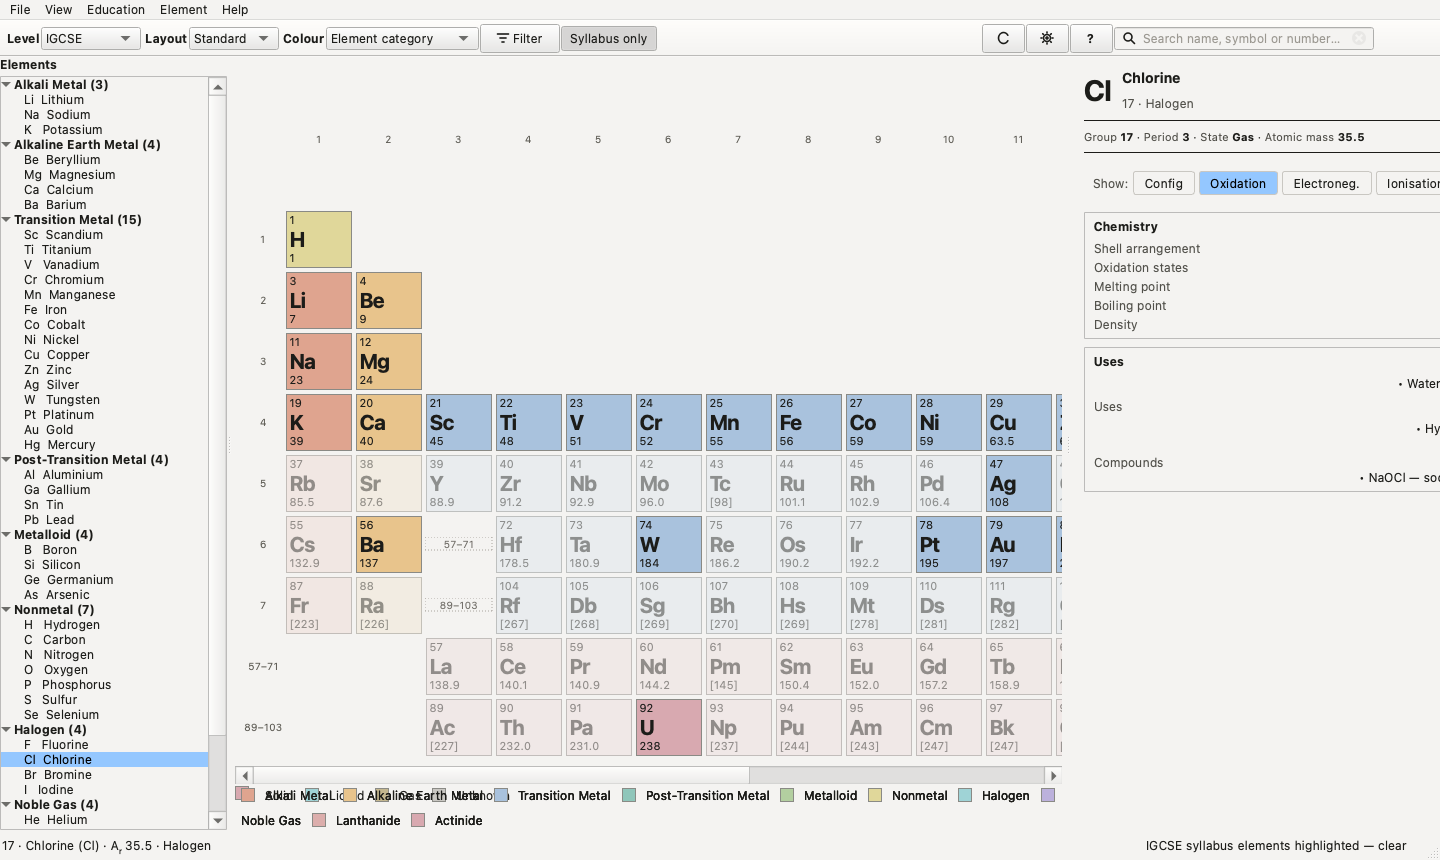
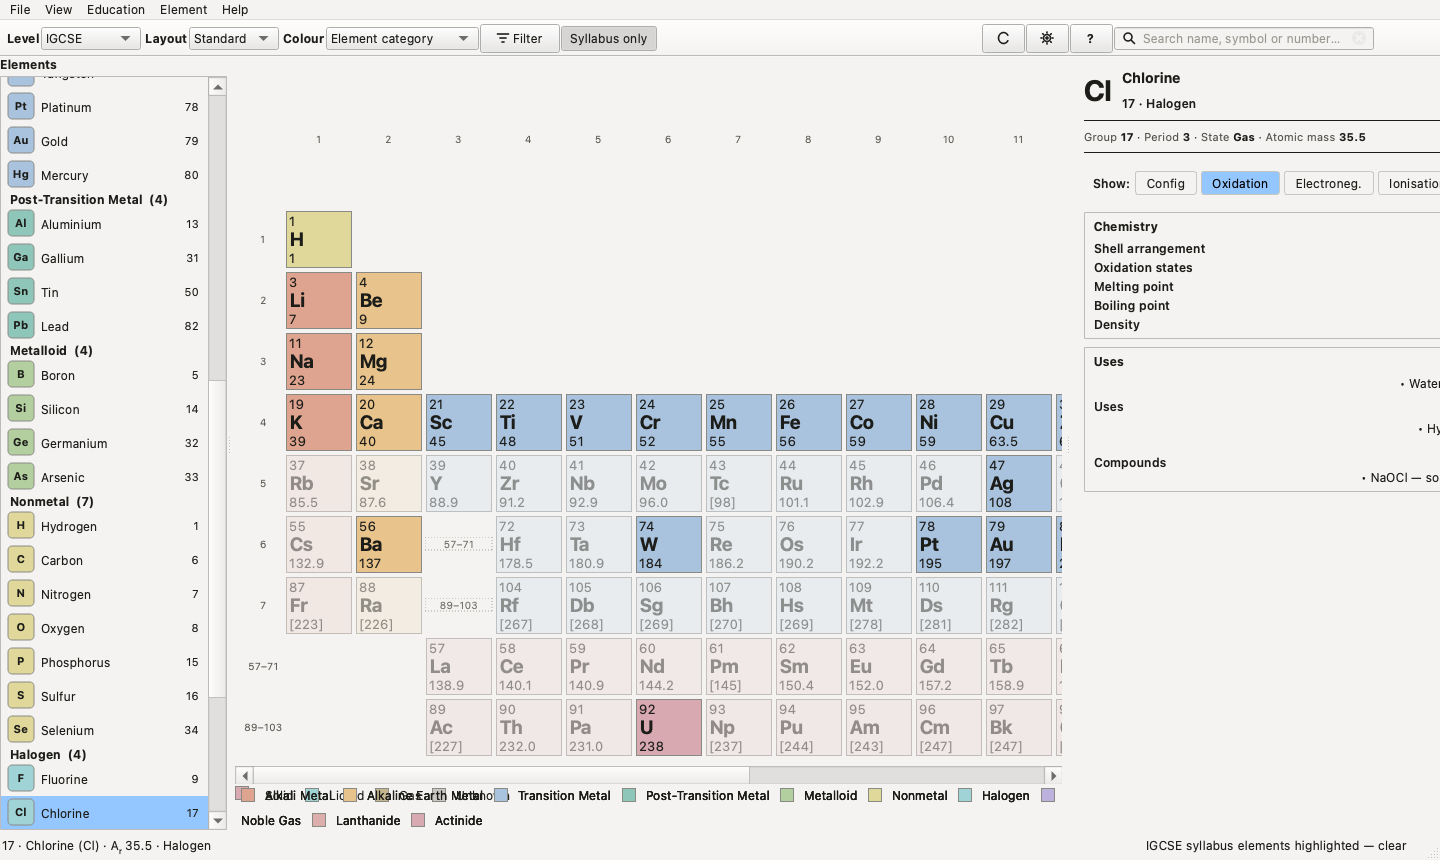
fix: labels now full-contrast bold ink (no grey text anywhere), GarageBand sidebar with coloured symbol chips via delegate, larger tile text

diff --git a/orbital/ui/sidebar.py b/orbital/ui/sidebar.py
@@ -1,24 +1,115 @@
 """Category browser — the GarageBand-style left sidebar.
 
-Element categories are the 'instrument families'; each section lists its
-elements as compact rows (number, symbol, name) with a colour dot. Click
-to select, arrows + Enter work throughout. Sections expand and collapse.
+GarageBand's library shows instrument families as sections, each row an
+icon + name. Orbital's version: element categories as bold section
+headers (with counts), each element row painted with a coloured symbol
+chip — the tile colour of that element — plus the name and number.
+
+A QItemDelegate paints the chips so the tree keeps native keyboard
+navigation, selection and filtering.
 """
 from __future__ import annotations
 
-from PySide6.QtCore import Qt, Signal
-from PySide6.QtGui import QFont
+from PySide6.QtCore import Qt, Signal, QRectF, QSize
+from PySide6.QtGui import QColor, QPainter, QFont, QPen, QPalette
 from PySide6.QtWidgets import (
-    QWidget, QVBoxLayout, QTreeWidget, QTreeWidgetItem, QLabel, QSizePolicy,
+    QWidget, QVBoxLayout, QTreeWidget, QTreeWidgetItem, QLabel,
+    QStyledItemDelegate, QStyle, QStyleOptionViewItem,
 )
 
 from orbital.data import CATEGORIES
+from orbital.ui.theme import is_dark_theme, readable_text_on
 
 CATEGORY_ORDER = (
     "alkali metal", "alkaline earth metal", "transition metal",
     "post-transition metal", "metalloid", "nonmetal", "halogen",
     "noble gas", "lanthanide", "actinide",
 )
+
+CHIP = 26
+CHIP_PAD = 7
+
+
+class _RowData:
+    """Per-item paint data (avoids per-paint lookups)."""
+    __slots__ = ("kind", "symbol", "number", "chip_color", "count", "title")
+
+    def __init__(self, kind, symbol="", number=0, chip_color="#c9c7c2",
+                 count=0, title=""):
+        self.kind = kind
+        self.symbol = symbol
+        self.number = number
+        self.chip_color = chip_color
+        self.count = count
+        self.title = title
+
+
+class SidebarDelegate(QStyledItemDelegate):
+    """Paints: section headers (bold, larger) and element rows (chip +
+    symbol, name, number on the right)."""
+
+    def paint(self, painter, option, index):
+        data = index.data(Qt.UserRole)
+        if data is None:
+            super().paint(painter, option, index)
+            return
+        painter.save()
+        painter.setRenderHint(QPainter.Antialiasing, True)
+        opt = QStyleOptionViewItem(option)
+        self.initStyleOption(opt, index)
+        # selection / focus background from the style, then our content on top
+        opt.widget.style().drawControl(QStyle.CE_ItemViewItem, opt, painter,
+                                       opt.widget)
+
+        rect = opt.rect
+        if data.kind == "header":
+            font = QFont(opt.font)
+            font.setBold(True)
+            font.setPointSizeF(opt.font.pointSizeF() * 1.02)
+            painter.setFont(font)
+            painter.setPen(opt.palette.color(QPalette.Text))
+            label = data.title if not data.count else "%s  (%d)" % (
+                data.title, data.count)
+            painter.drawText(rect.adjusted(CHIP_PAD + 2, 0, -8, 0),
+                             Qt.AlignVCenter | Qt.AlignLeft, label)
+        else:
+            # coloured symbol chip
+            chip = QRectF(rect.left() + CHIP_PAD,
+                          rect.center().y() - CHIP / 2.0, CHIP, CHIP)
+            color = QColor(data.chip_color)
+            painter.setBrush(color)
+            painter.setPen(QPen(QColor("#8a8a85") if not is_dark_theme()
+                                else QColor("#54575e"), 1))
+            painter.drawRoundedRect(chip, 4.0, 4.0)
+            painter.setBrush(Qt.NoBrush)
+            f = QFont(opt.font)
+            f.setBold(True)
+            f.setPointSizeF(opt.font.pointSizeF() * 0.95)
+            painter.setFont(f)
+            painter.setPen(readable_text_on(color))
+            painter.drawText(chip, Qt.AlignCenter, data.symbol)
+            # element name + number
+            painter.setPen(opt.palette.color(QPalette.Text))
+            name_font = QFont(opt.font)
+            name_font.setBold(False)
+            painter.setFont(name_font)
+            painter.drawText(rect.adjusted(CHIP_PAD * 2 + CHIP, 0, -34, 0),
+                             Qt.AlignVCenter | Qt.AlignLeft, data.title)
+            f2 = QFont(opt.font)
+            f2.setPointSizeF(opt.font.pointSizeF() * 0.9)
+            painter.setFont(f2)
+            painter.setPen(opt.palette.color(QPalette.Text))
+            painter.drawText(rect.adjusted(0, 0, -CHIP_PAD - 2, 0),
+                             Qt.AlignVCenter | Qt.AlignRight,
+                             str(data.number))
+        painter.restore()
+
+    def sizeHint(self, option, index):
+        data = index.data(Qt.UserRole)
+        base = super().sizeHint(option, index)
+        if data is not None and data.kind == "row":
+            return QSize(base.width(), max(base.height(), CHIP + 8))
+        return base
 
 
 class Sidebar(QWidget):
@@ -29,7 +120,7 @@ class Sidebar(QWidget):
         self.elements = elements
         self.color_modes = color_modes
         self._item_numbers = {}
-        self._filter_numbers = None  # set of visible atomic numbers, or None
+        self._filter_numbers = None
 
         lay = QVBoxLayout(self)
         lay.setContentsMargins(0, 0, 0, 0)
@@ -44,22 +135,30 @@ class Sidebar(QWidget):
         self.tree = QTreeWidget()
         self.tree.setColumnCount(1)
         self.tree.setHeaderHidden(True)
-        self.tree.setRootIsDecorated(True)
-        self.tree.setIndentation(10)
-        self.tree.setUniformRowHeights(True)
+        self.tree.setRootIsDecorated(False)
+        self.tree.setIndentation(0)
+        self.tree.setUniformRowHeights(False)
         self.tree.setVerticalScrollMode(QTreeWidget.ScrollPerPixel)
+        self.tree.setItemDelegate(SidebarDelegate(self.tree))
         lay.addWidget(self.tree, 1)
 
         self.tree.itemClicked.connect(self._on_click)
         self._build()
+
+    # ------------------------------------------------------------------ data
 
     def set_filter(self, numbers):
         """Restrict the list to these atomic numbers (None = all 118)."""
         self._filter_numbers = numbers
         self._build()
 
-    def _build(self):
+    def _chip_color(self, element):
         mode = self.color_modes.get("category")
+        if mode and mode.fn:
+            return mode.fn(element)
+        return "#c9c7c2"
+
+    def _build(self):
         self.tree.clear()
         self._item_numbers = {}
         by_cat = {}
@@ -70,18 +169,24 @@ class Sidebar(QWidget):
 
         for cat in CATEGORY_ORDER:
             els = by_cat.get(cat, [])
-            section = QTreeWidgetItem([cat.title() + " (%d)" % len(els)])
-            f = section.font(0)
-            f.setBold(True)
-            section.setFont(0, f)
+            if not els:
+                continue
+            section = QTreeWidgetItem([""])
+            section.setData(0, Qt.UserRole, _RowData(
+                "header", title=cat.title(), count=len(els)))
+            section.setFlags(Qt.ItemIsEnabled)  # header: not selectable
             self.tree.addTopLevelItem(section)
             section.setExpanded(True)
             for e in els:
-                label = "%-2s  %s" % (e.symbol, e.name)
-                item = QTreeWidgetItem([label])
+                item = QTreeWidgetItem([""])
+                item.setData(0, Qt.UserRole, _RowData(
+                    "row", symbol=e.symbol, number=e.number,
+                    chip_color=self._chip_color(e), title=e.name))
                 item.setToolTip(0, "%d \u00b7 %s" % (e.number, e.name))
                 section.addChild(item)
                 self._item_numbers[id(item)] = e.number
+
+    # ------------------------------------------------------------------ input
 
     def _on_click(self, item, _col):
         number = self._item_numbers.get(id(item))
@@ -91,21 +196,13 @@ class Sidebar(QWidget):
             item.setExpanded(not item.isExpanded())
 
     def select_element(self, number):
-        for item_id, n in self._item_numbers.items():
-            if n == number:
-                # find the actual widget item and select it
-                for i in range(self.tree.topLevelItemCount()):
-                    section = self.tree.topLevelItem(i)
-                    for j in range(section.childCount()):
-                        child = section.child(j)
-                        if self._item_numbers.get(id(child)) == number:
-                            self.tree.blockSignals(True)
-                            self.tree.setCurrentItem(child)
-                            self.tree.scrollToItem(child)
-                            self.tree.blockSignals(False)
-                            return
-
-    def refresh_colors(self):
-        # colour dots aren't drawn per-row in the tree; instead the header
-        # hint carries the mode. Kept intentionally minimal.
-        pass
+        for i in range(self.tree.topLevelItemCount()):
+            section = self.tree.topLevelItem(i)
+            for j in range(section.childCount()):
+                child = section.child(j)
+                if self._item_numbers.get(id(child)) == number:
+                    self.tree.blockSignals(True)
+                    self.tree.setCurrentItem(child)
+                    self.tree.scrollToItem(child)
+                    self.tree.blockSignals(False)
+                    return

diff --git a/tests/test_ui.py b/tests/test_ui.py
@@ -318,19 +318,19 @@ def test_detail_panel_never_scroll_horizontally(win, qapp):
 
 def test_muted_labels_use_readable_colour(win, qapp):
     from PySide6.QtWidgets import QLabel
-    from orbital.ui.theme import LIGHT, is_dark_theme
+    from orbital.ui.theme import LIGHT, DARK, is_dark_theme
     win.select_element(26)
     qapp.processEvents()
     page = win.panel._scroll.widget()
     muted = [l for l in page.findChildren(QLabel)
              if l.property("muted") is True]
     assert muted, "expected muted labels on the detail page"
-    expected = (LIGHT if not is_dark_theme() else
-                __import__("orbital.ui.theme", fromlist=["DARK"]).DARK).secondary_text
-    # the app stylesheet applies the colour; assert the rule exists
+    # labels now use the FULL text colour at demi-bold — grey ink is gone
+    text = (DARK if is_dark_theme() else LIGHT).text
     from PySide6.QtWidgets import QApplication
     qss = QApplication.instance().styleSheet()
-    assert expected.name().lower() in qss.lower()
+    assert text.name().lower() in qss.lower()
+    assert "font-weight: 600" in qss
 
 
 def test_window_resizes_small(win, qapp):
@@ -341,3 +341,32 @@ def test_window_resizes_small(win, qapp):
     assert len(win.table.tiles) == 118
     win.resize(1280, 800)
     qapp.processEvents()
+
+
+def test_sidebar_garageband_chips(win, qapp):
+    from orbital.ui.sidebar import _RowData
+    # every element row carries paint data with a chip colour + symbol
+    tree = win.sidebar.tree
+    rows = 0
+    for i in range(tree.topLevelItemCount()):
+        section = tree.topLevelItem(i)
+        header = section.data(0, 0x0100)  # Qt.UserRole
+        assert header is not None and header.kind == "header"
+        for j in range(section.childCount()):
+            child = section.child(j)
+            data = child.data(0, 0x0100)
+            assert data is not None and data.kind == "row"
+            assert len(data.symbol) <= 2
+            assert data.chip_color.startswith("#")
+            rows += 1
+    assert rows == 118
+    # symbol chips render: the sidebar grab contains many coloured pixels
+    pix = win.sidebar.grab().toImage()
+    from PySide6.QtGui import QColor
+    colored = 0
+    for x in range(0, pix.width(), 3):
+        for y in range(0, pix.height(), 3):
+            c = pix.pixelColor(x, y)
+            if max(c.red(), c.green(), c.blue()) - min(c.red(), c.green(), c.blue()) > 30:
+                colored += 1
+    assert colored > 200, "expected visible coloured chips, got %d" % colored

diff --git a/orbital/ui/tiles.py b/orbital/ui/tiles.py
@@ -31,8 +31,8 @@ def layout_fields(width, height, fields, font_scale=1.0):
     a metrics-like object with height(). Unit tests use a fake.
     """
     fields = [f for f in fields if f]
-    small_pt = max(7.0, 8.5 * font_scale)
-    name_pt = max(6.5, 8.0 * font_scale)
+    small_pt = max(7.5, 9.5 * font_scale)
+    name_pt = max(7.0, 9.0 * font_scale)
     pad = 3.5
 
     def pt2px(pt):
@@ -62,8 +62,8 @@ def layout_fields(width, height, fields, font_scale=1.0):
 
     # symbol takes what's left, clamped
     symbol_room = available - fixed_h
-    symbol_pt = max(8.0, min(17.0 * font_scale, symbol_room / 1.45 * 0.92))
-    if symbol_pt < 8.0:
+    symbol_pt = max(9.0, min(17.5 * font_scale, symbol_room / 1.45 * 0.92))
+    if symbol_pt < 9.0:
         # nothing fits: drop the most expendable fields and retry once
         for drop in _FIELD_PRIORITY:
             if drop == "symbol":
@@ -71,7 +71,7 @@ def layout_fields(width, height, fields, font_scale=1.0):
             if drop in fields and drop != "number":
                 fields = [f for f in fields if f != drop]
                 return layout_fields(width, height, fields, font_scale)
-        symbol_pt = 8.0
+        symbol_pt = 9.0
 
     y = pad
     out = []

diff --git a/orbital/ui/theme.py b/orbital/ui/theme.py
@@ -99,16 +99,16 @@ def apply_theme(theme: str, accent_hex: str):
     app.setPalette(pal)
     app.setStyleSheet("")
 
-    # tiny global QSS: focus rings, and a readable "muted text" class.
-    # Labels set property("muted", True) and get a dark secondary colour
-    # (palette(mid) is a border grey — never text).
+    # tiny global QSS: focus rings + label style. Labels marked "muted"
+    # use the FULL text colour at demi-bold — readability comes from
+    # weight and size, never from grey ink.
     app.setStyleSheet(
-        "*[muted=\"true\"] {{ color: {secondary}; }}"
+        "*[muted=\"true\"] {{ color: {text}; font-weight: 600; }}"
         "QMenu::item:disabled {{ color: {disabled}; }}"
         "QLineEdit:focus, QComboBox:focus, QSpinBox:focus {{ border: 1px solid {accent}; }}"
         "QToolTip {{ border: 1px solid {border}; padding: 3px; }}"
         .format(
-            secondary=pal_src.secondary_text.name(),
+            text=pal_src.text.name(),
             disabled=pal_src.disabled_text.name(),
             accent=accent.name(),
             border=pal_src.border.name(),
